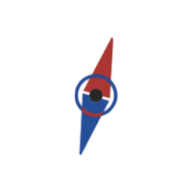
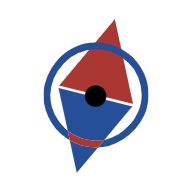
Новая иконка приложения

Changed region(s): [[0.2188, 0.0938, 0.7812, 0.9062]]

diff --git a/public/index.html b/public/index.html
@@ -2,25 +2,15 @@
 <html lang="en">
   <head>
     <meta charset="utf-8" />
-    <link rel="icon" href="%PUBLIC_URL%/favicon.ico" />
     <meta name="viewport" content="width=device-width, initial-scale=1" />
     <meta name="theme-color" content="#000000" />
-    <link rel="apple-touch-icon" href="%PUBLIC_URL%/logo192.png" />
-    <!--
-      manifest.json provides metadata used when your web app is installed on a
-      user's mobile device or desktop. See https://developers.google.com/web/fundamentals/web-app-manifest/
-    -->
-    <link rel="manifest" href="%PUBLIC_URL%/manifest.json" />
-    <!--
-      Notice the use of %PUBLIC_URL% in the tags above.
-      It will be replaced with the URL of the `public` folder during the build.
-      Only files inside the `public` folder can be referenced from the HTML.
-
-      Unlike "/favicon.ico" or "favicon.ico", "%PUBLIC_URL%/favicon.ico" will
-      work correctly both with client-side routing and a non-root public URL.
-      Learn how to configure a non-root public URL by running `npm run build`.
-    -->
-    <title>ТУРМАРАФОН</title>
+    <link rel="icon" type="image/png" href="/favicon-96x96.png" sizes="96x96" />
+    <link rel="icon" type="image/svg+xml" href="/favicon.svg" />
+    <link rel="shortcut icon" href="/favicon.ico" />
+    <link rel="apple-touch-icon" sizes="180x180" href="/apple-touch-icon.png" />
+    <meta name="apple-mobile-web-app-title" content="Турмарафон" />
+    <link rel="manifest" href="/site.webmanifest" />
+    <title>Турмарафон</title>
     <link rel="preconnect" href="https://fonts.googleapis.com">
     <link rel="preconnect" href="https://fonts.gstatic.com" crossorigin>
     <link href="https://fonts.googleapis.com/css2?family=Roboto:wght@400;500;600;700&display=swap" rel="stylesheet">
@@ -38,5 +28,7 @@
       To begin the development, run `npm start` or `yarn start`.
       To create a production bundle, use `npm run build` or `yarn build`.
     -->
+    <!-- Yandex.Metrika counter -->
+    <noscript><div><img src="https://mc.yandex.ru/watch/103357897" style="position:absolute; left:-9999px;" alt="" /></div></noscript>
   </body>
 </html>
